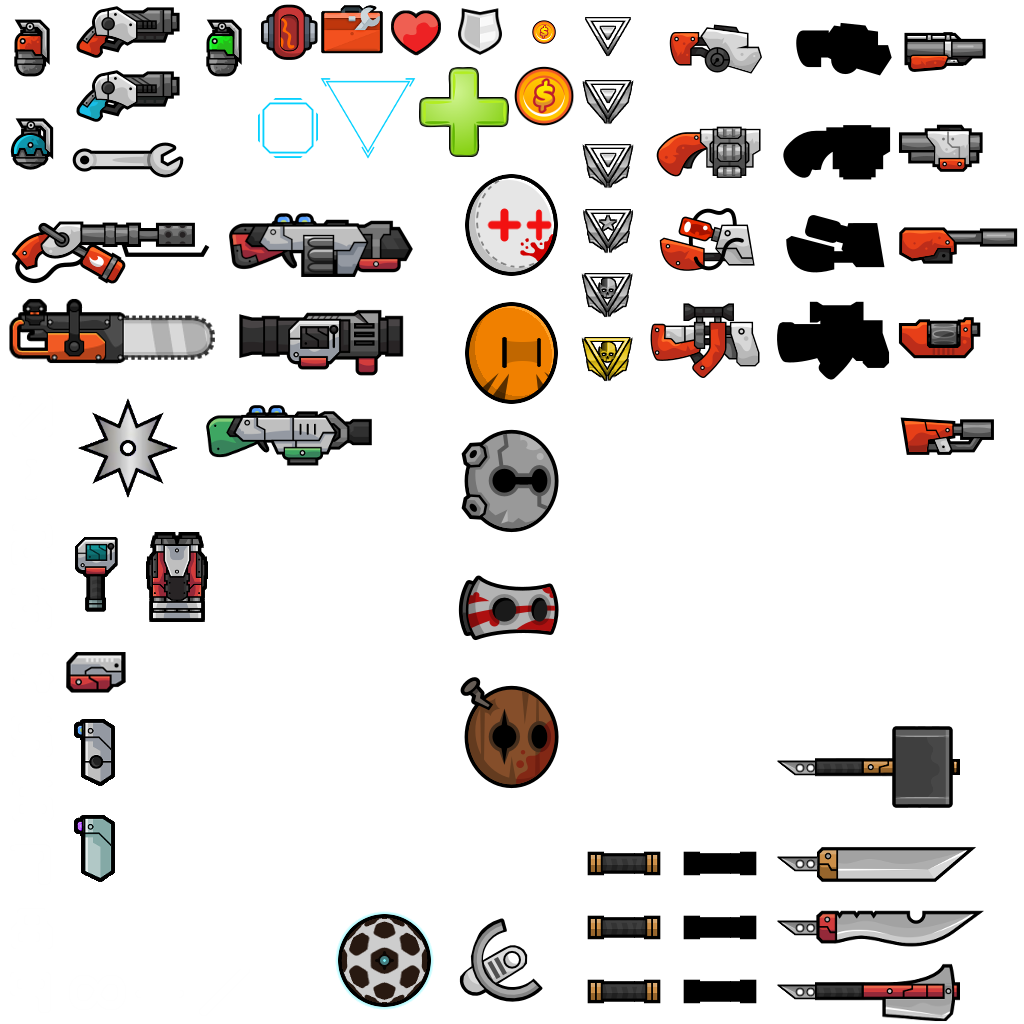
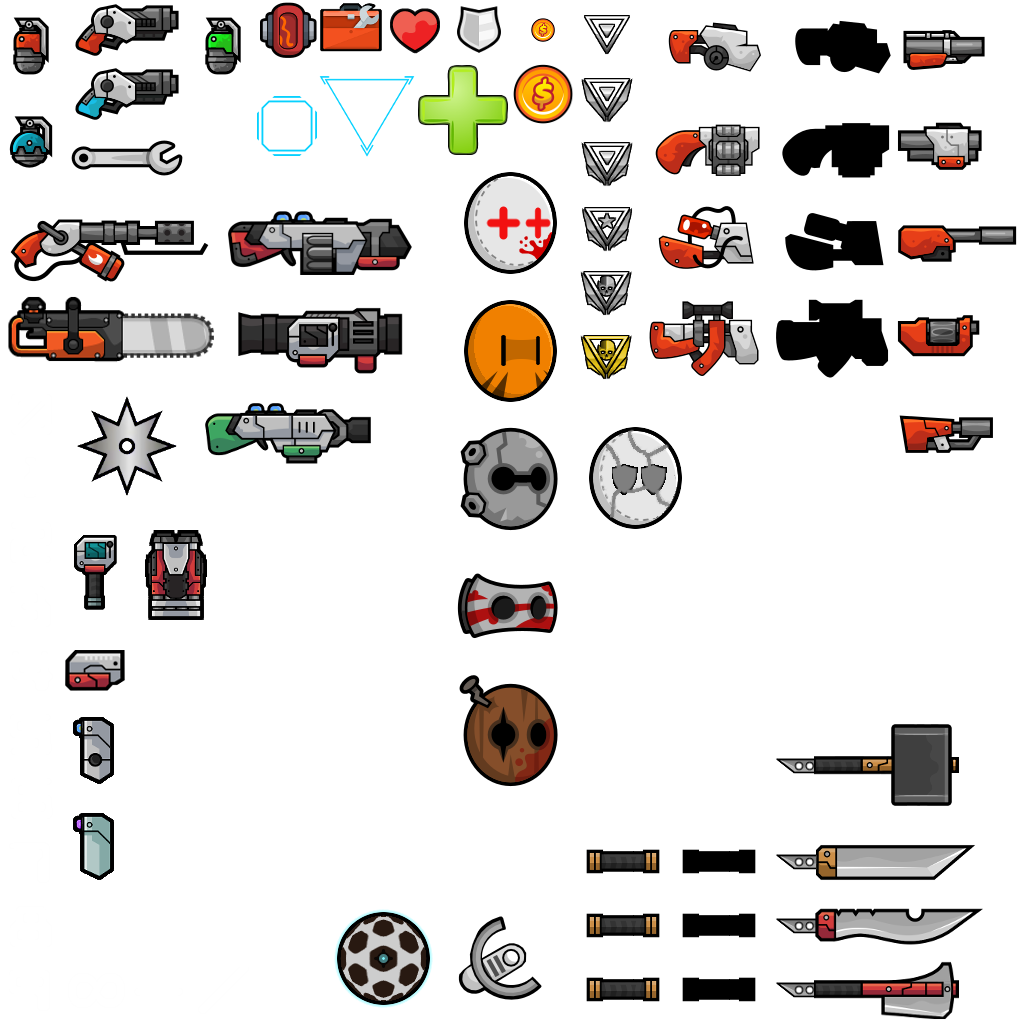
New mask: Mask of armor

diff --git a/datasrc/content.py b/datasrc/content.py
@@ -435,6 +435,7 @@ image_mask2 = Image("mask2", "masks/mask2.png")
 image_mask3 = Image("mask3", "masks/mask3.png")
 image_mask4 = Image("mask4", "masks/mask4.png")
 image_mask5 = Image("mask5", "masks/mask5.png")
+image_mask6 = Image("mask6", "masks/mask6.png")
 
 container.images.Add(image_null)
 container.images.Add(image_pixel)
@@ -517,6 +518,7 @@ container.images.Add(image_mask2)
 container.images.Add(image_mask3)
 container.images.Add(image_mask4)
 container.images.Add(image_mask5)
+container.images.Add(image_mask6)
 
 container.pickups.Add(Pickup("health"))
 container.pickups.Add(Pickup("armor"))
@@ -731,12 +733,13 @@ container.sprites.Add(Sprite("weapon_static15", set_weapons, 14, 9, 4, 4)) # mas
 container.sprites.Add(Sprite("weapon_static16", set_weapons, 14, 13, 4, 4)) # mask3 / protection
 container.sprites.Add(Sprite("weapon_static17", set_weapons, 14, 17, 4, 4)) # mask4 / 
 container.sprites.Add(Sprite("weapon_static18", set_weapons, 14, 21, 4, 4)) # mask5 / wooden
+container.sprites.Add(Sprite("weapon_static19", set_weapons, 18, 13, 4, 4)) # mask6 / armor
 
-container.sprites.Add(Sprite("weapon_static19", set_weapons, 2, 25, 2, 3)) # invis
-container.sprites.Add(Sprite("weapon_static20", set_weapons, 7, 6, 6, 3)) # flame rifle / bubbler
-container.sprites.Add(Sprite("weapon_static21", set_weapons, 2, 12, 4, 4)) # shuriken
-container.sprites.Add(Sprite("weapon_static22", set_weapons, 4, 16, 3, 4)) # cs bomb
-container.sprites.Add(Sprite("weapon_static23", set_weapons, 10, 28, 4, 4)) # ball
+container.sprites.Add(Sprite("weapon_static20", set_weapons, 2, 25, 2, 3)) # invis
+container.sprites.Add(Sprite("weapon_static21", set_weapons, 7, 6, 6, 3)) # flame rifle / bubbler
+container.sprites.Add(Sprite("weapon_static22", set_weapons, 2, 12, 4, 4)) # shuriken
+container.sprites.Add(Sprite("weapon_static23", set_weapons, 4, 16, 3, 4)) # cs bomb
+container.sprites.Add(Sprite("weapon_static24", set_weapons, 10, 28, 4, 4)) # ball
 
 # pickups
 container.sprites.Add(Sprite("pickup_kit", set_weapons, 10, 0, 2, 2))

diff --git a/src/game/weapons.cpp b/src/game/weapons.cpp
@@ -588,7 +588,7 @@ const ivec2 GetWeaponVisualSize(int Weapon)
 		case SW_SHURIKEN: return ivec2(4, 4);
 		case SW_TOOL: return ivec2(4, 2);
 		
-		case SW_MASK1: case SW_MASK2: case SW_MASK3: case SW_MASK4: case SW_MASK5: return ivec2(4, 4);
+		case SW_MASK1: case SW_MASK2: case SW_MASK3: case SW_MASK4: case SW_MASK5: case SW_MASK6: return ivec2(4, 4);
 		case SW_UPGRADE: return ivec2(2, 2);
 		case SW_RESPAWNER: return ivec2(2, 4);
 		case SW_BOMB: return ivec2(3, 4);
@@ -712,7 +712,7 @@ const vec2 GetWeaponRenderOffset(int Weapon)
 			case SW_RESPAWNER: return vec2(2, -5);
 			case SW_SHIELD: case SW_INVIS: return vec2(4, -3);
 			case SW_BOMB: return vec2(8, 0);
-			case SW_MASK1: case SW_MASK2: case SW_MASK3: case SW_MASK4: case SW_MASK5: return vec2(16, 0);
+			case SW_MASK1: case SW_MASK2: case SW_MASK3: case SW_MASK4: case SW_MASK5: case SW_MASK6: return vec2(16, 0);
 			case SW_BAZOOKA: return vec2(30, 0);
 			case SW_BOUNCER: return vec2(30, 0);
 			case SW_CLUSTER: return vec2(24, 0);
@@ -1546,7 +1546,7 @@ const bool WeaponAutoPick(int Weapon)
 		switch (GetStaticType(Weapon))
 		{
 			case SW_GUN1: case SW_GUN2: case SW_TOOL: return false;
-			case SW_MASK1: case SW_MASK2: case SW_MASK3: case SW_MASK4: case SW_MASK5: return false;
+			case SW_MASK1: case SW_MASK2: case SW_MASK3: case SW_MASK4: case SW_MASK5: case SW_MASK6: return false;
 			default: return true;
 		};
 	}

diff --git a/src/game/client/components/players.cpp b/src/game/client/components/players.cpp
@@ -1304,7 +1304,7 @@ void CPlayers::RenderPlayer(
 	// get mask / gear
 	pCustomPlayerInfo->m_Mask = s>>STATUS_MASK1;
 	
-	if (pCustomPlayerInfo->m_Mask < 0 || pCustomPlayerInfo->m_Mask > 5)
+	if (pCustomPlayerInfo->m_Mask < 0 || pCustomPlayerInfo->m_Mask > 6)
 		pCustomPlayerInfo->m_Mask = 0;
 	
 	if (s & (1<<STATUS_SPAWNING))

diff --git a/src/game/weapons.h b/src/game/weapons.h
@@ -53,6 +53,7 @@ enum WeaponBits
 	SW_MASK3,
 	SW_MASK4,
 	SW_MASK5,
+	SW_MASK6,
 	SW_INVIS,
 	SW_CLUSTER,
 	SW_SHURIKEN,
@@ -100,6 +101,7 @@ static const char *s_TipText[NUM_SW] = {
 	"Mask of protection",
 	"Mask of plenty",
 	"Mask of melee",
+	"Mask of armor",
 	"Invisibility device",
 	"",
 	"",
